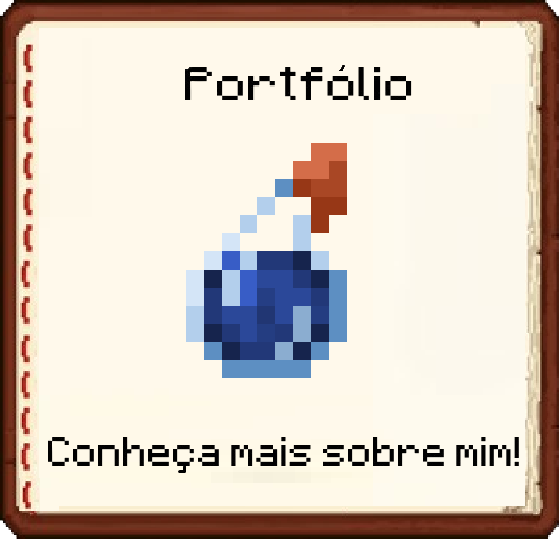
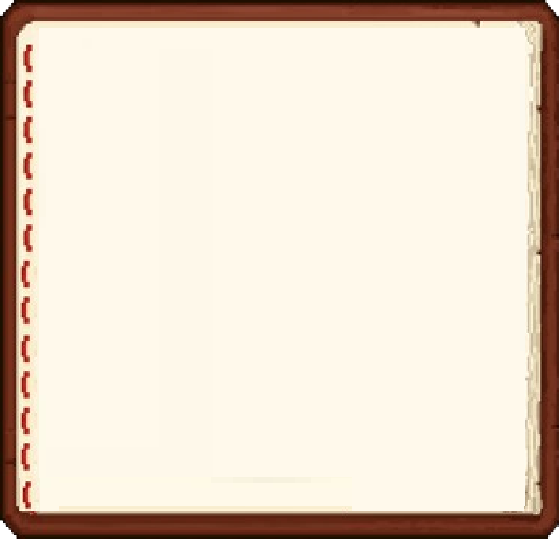
refatorar páginas do livro

diff --git a/portfolioadrianoreidel/src/pagesText.js b/portfolioadrianoreidel/src/pagesText.js
@@ -1,0 +1,63 @@
+import images from './images';
+
+export const pagesText = [
+    <></>, // Página inicial vazia
+    <>
+      <p>
+        Olá, me chamo <strong>Adriano José Mazurek Reidel</strong>. Sou desenvolvedor de Software FullStack, criando sistemas robustos e otimizados.
+      </p>
+      <p>
+        Desde que dei início à minha trajetória profissional como desenvolvedor, me empenho diariamente para estudar e praticar em busca de adquirir conhecimento e evoluir.
+        Para isso, procuro me manter atualizado sobre as mais recentes tendências tecnológicas que surgem no campo.
+      </p>
+      <p>
+        Tenho a convicção de que a programação é um misto de arte e ciência, e é justamente essa junção de criatividade e raciocínio lógico que me impulsiona a buscar excelência em todas as minhas tarefas.
+      </p>
+    </>,
+    <>
+      <p>
+        Atualmente, estou no nono semestre do curso de <strong>Ciências da Computação</strong> na URI em Santo Ângelo, onde utilizo da teoria para expandir meus conhecimentos práticos.
+      </p>
+      <p>
+        Além das minhas atividades já citadas, me dedico a desenvolver projetos pessoais que vão desde páginas web simples até sites inteiros mais complexos.
+      </p>
+      <p>
+        Meu objetivo é criar soluções inovadoras que ampliem minha compreensão sobre desenvolvimento de software e arquitetura de sistemas.
+      </p>
+    </>,
+    <>
+      <p>
+        Desenvolvedor FullStack na Empresa Abase Sistemas e Soluções Ltda. (Atual) Desde 04/2023.<br />
+       - Tecnologias utilizadas: C#,.NET, PostgreSQL, JavaScript, Ext.js, SQL Anywhere Sybase, NHibernte, Node.js.<br />
+       - Utilizado GitHub, GitLab, Visual Studio Community, entre outras plataformas e ferramentas diversas.
+      </p>
+      <p>
+        Estudante de Ciências da Computação na URI em Santo Ângelo RS. (Atual) Desde 2021/01 com conclusão em 2025/01 (nove semestres).<br />
+         - Principais conhecimentos adquiridos: Linguagens de Programação: C, Python e Java; Redes de Computadores, IA, Sistemas Distribuídos, Lógica Computacional, Cálculo.
+      </p>
+    </>,
+    <>
+      <p>
+        <a href="https://reportagemmissoesjesuiticas.netlify.app/" target="_blank" rel="noopener noreferrer">
+          Página
+        </a>{" "}
+        para apresentação de trabalho de reportagem desenvolvido por alunos da graduação de Jornalismo.<br />
+         - Apliquei HTML e CSS com o projeto criado utilizando ReactJS, para garantir que a navegação fosse fluída e adaptável para os leitores em diferentes
+        tamanhos de tela. Todo o layout apresentado foi desenvolvido sob demanda dos responsáveis pela reportagem.<br />
+         - O código fonte está público em meu{" "}
+        <a href="https://github.com/AdrianoReidel" target="_blank" rel="noopener noreferrer">
+          GitHub
+        </a>.
+      </p>
+      <img src={images.projetoPagina} alt="Projeto exemplo" style={{ width: "100%", borderRadius: "8px" }} />
+    </>,  
+    <>
+    <p>Entre em contato comigo através dos seguintes canais:</p>
+    <ul>
+      <li>📧 E-mail: <a href="mailto:adrianojosereidel@hotmail.com">adrianojosereidel@hotmail.com</a></li>
+      <li>📱 WhatsApp: <a href="https://wa.me/55997299507" target="_blank">+55 99 7299-9507</a></li>
+      <li>🔗 LinkedIn: <a href="https://www.linkedin.com/in/adrianoreidel/" target="_blank">Adriano Reidel</a></li>
+      <li>🐙 GitHub: <a href="https://github.com/AdrianoReidel" target="_blank">github.com/AdrianoReidel</a></li>
+    </ul>
+  </>,
+  ];

diff --git a/portfolioadrianoreidel/src/App.js b/portfolioadrianoreidel/src/App.js
@@ -2,29 +2,20 @@ import React, { useState, useEffect } from 'react';
 import './App.css';
 import images from './images';
 import { tecnologias } from './tecnologias';
+import { pagesText } from './pagesText';
 
 function App() {
-  const pages = [
-    images.livrobranco,       
-    images.livrosobre,        
-    images.livrosobre2,       
-    images.livroexperiencias, 
-    images.livroprojetos,     
-    images.livrocontato,      
-  ];
-
   const [currentPageIndex, setCurrentPageIndex] = useState(0);
-  const currentPage = pages[currentPageIndex];
 
   const handleNextPage = () => {
     setCurrentPageIndex((prevIndex) => 
-      prevIndex >= pages.length - 1 ? 0 : prevIndex + 1
+      prevIndex >= pagesText.length - 1 ? 0 : prevIndex + 1
     );
   };
 
   const handlePrevPage = () => {
     setCurrentPageIndex((prevIndex) =>
-      prevIndex <= 0 ? pages.length - 1 : prevIndex - 1
+      prevIndex <= 0 ? pagesText.length - 1 : prevIndex - 1
     );
   };
 
@@ -124,11 +115,18 @@ function App() {
             </button>
           </div>
             <div className="image-row">
-              <img
-                src={currentPage}
-                alt="livro-pagina"
-                className="portfolio-image-livro"
-              />
+              <div
+                className="livro-container"
+                style={{
+                  backgroundImage: `url(${currentPageIndex === 0 ? images.livrocapa : images.livrobranco})`,
+                  backgroundSize: 'cover',
+                  backgroundPosition: 'center'
+                }}
+              >
+                <div className="livro-text">
+                  {pagesText[currentPageIndex]}
+                </div>
+              </div>
             </div>
             <div className="buttons-mobile">
                 <button className="button-arrows"
@@ -364,11 +362,18 @@ function App() {
                 >
                 </button>
               </div>
-              <img
-                src={currentPage}
-                alt="livro-pagina"
-                className="portfolio-image-livro"
-              />
+              <div
+                className="livro-container"
+                style={{
+                  backgroundImage: `url(${currentPageIndex === 0 ? images.livrocapa : images.livrobranco})`,
+                  backgroundSize: 'cover',
+                  backgroundPosition: 'center'
+                }}
+              >
+                <div className="livro-text">
+                  {pagesText[currentPageIndex]}
+                </div>
+              </div>
 
               <div className="button-column">
                 <button className="button-arrows"

diff --git a/portfolioadrianoreidel/src/App.css b/portfolioadrianoreidel/src/App.css
@@ -64,8 +64,8 @@
 }
 
 .button-grid button img {
-  width: 3.5vh;   /* ou o valor que preferir */
-  height: auto; /* mantém a proporção vertical */
+  width: 3.5vh; 
+  height: auto; 
   display: block; 
 }
 
@@ -89,8 +89,8 @@
 }
 
 .button-list button img {
-  width: 3.5vh;   /* ou o valor que preferir */
-  height: auto; /* mantém a proporção vertical */
+  width: 3.5vh;
+  height: auto;
   display: block; 
 }
 
@@ -98,6 +98,26 @@
   width: 45vh;
   height: auto;
   display: flex;
+}
+
+.livro-container {
+  width: 47vh;
+  height: auto;
+  display: flex;
+  min-height: 45vh; 
+  background-size: cover; 
+  background-position: center;
+  background-repeat: no-repeat;
+  position: relative;
+}
+
+.livro-text {
+  font-size: 1.8vh;
+  position: absolute;
+  top: 0.6vh;
+  left: 3.2vh;
+  width: 40vh;
+  color:black;
 }
 
 .button-column {
@@ -151,14 +171,7 @@
 
   .craftingtable-container {
     width: 70vh;
-    height: auto;
-    display: flex;
     min-height: 68vh;  
-    background-image: url("./crafting-limpa.jpeg");
-    background-size: cover; 
-    background-position: center;
-    background-repeat: no-repeat;
-    position: relative;
   }
   
   .button-grid {
@@ -171,19 +184,11 @@
   }
   
   .button-grid button {
-    background: none; 
-    border: none;
-    outline: none;
-    padding: 0;
-    margin: 0;
-    cursor: pointer;
     width: 5h;
   }
 
   .button-grid button img {
-    width: 5vh;   /* ou o valor que preferir */
-    height: auto; /* mantém a proporção vertical */
-    display: block; 
+    width: 5vh;
   }
 
   .button-list {
@@ -217,6 +222,17 @@
     display: flex;
   }
 
+  .livro-container {
+    width: 70vh;
+    min-height: 68vh;
+  }
+
+  .livro-text {
+    font-size: 2.75vh;
+    top: 3vh;
+    left: 5vh;
+    width: 62vh;
+  }
   .button-options {
     width: 30vh;
     height: 6vh;
@@ -230,12 +246,5 @@
   .button-links {
     width: 8vh;
     height: 5.7vh;
-  }
-
-  .button-column {
-    display: flex;
-    flex-direction: column;
-    row-gap: 10px;
-    align-items: center
   }
 }

diff --git a/portfolioadrianoreidel/src/images.js b/portfolioadrianoreidel/src/images.js
@@ -3,6 +3,7 @@ const images = {
     fullstacksoftwaredeveloper: require('./fullstacksoftwaredeveloper.png'),
     craftingtable: require('./crafting-limpa.jpeg'),
     livrobranco: require('./livrobranco.png'),
+    livrocapa: require('./livrocapa.png'),
     sobre: require('./sobre.png'),
     sobre2: require('./sobre2.png'),
     experiencias: require('./experiencias.png'),
@@ -11,11 +12,7 @@ const images = {
     contato2: require('./contato2.png'),
     projetos: require('./projetos.png'),
     projetos2: require('./projetos2.png'),
-    livrosobre: require('./livrosobre.png'),
-    livrosobre2: require('./livrosobre2.PNG'),
-    livroexperiencias: require('./livroexperiencias.png'),
-    livroprojetos: require('./livroprojetos.png'),
-    livrocontato: require('./livrocontato.png'),
+    projetoPagina: require('./projetoPagina.png'),
     setadireita: require('./setadireita.png'),
     setaesquerda: require('./setaesquerda.png'),
     pincel: require('./pincel.png'),
